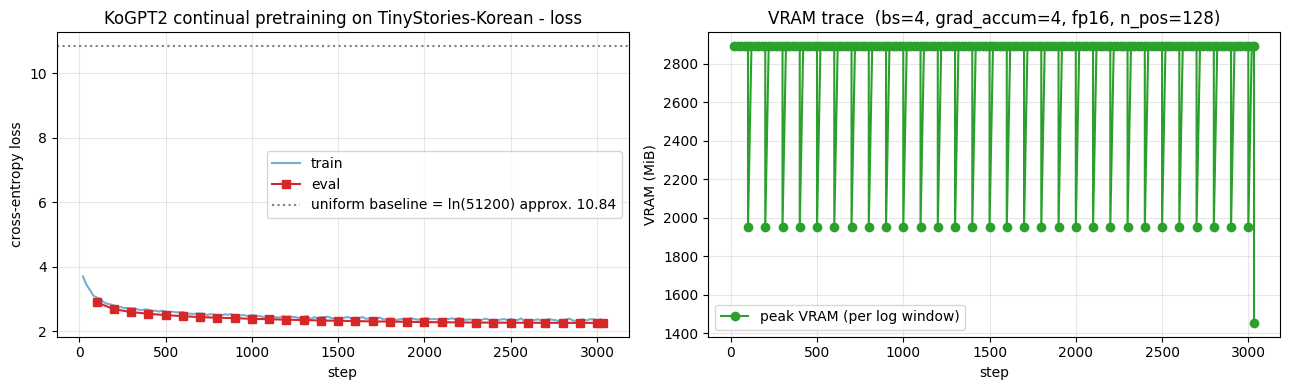
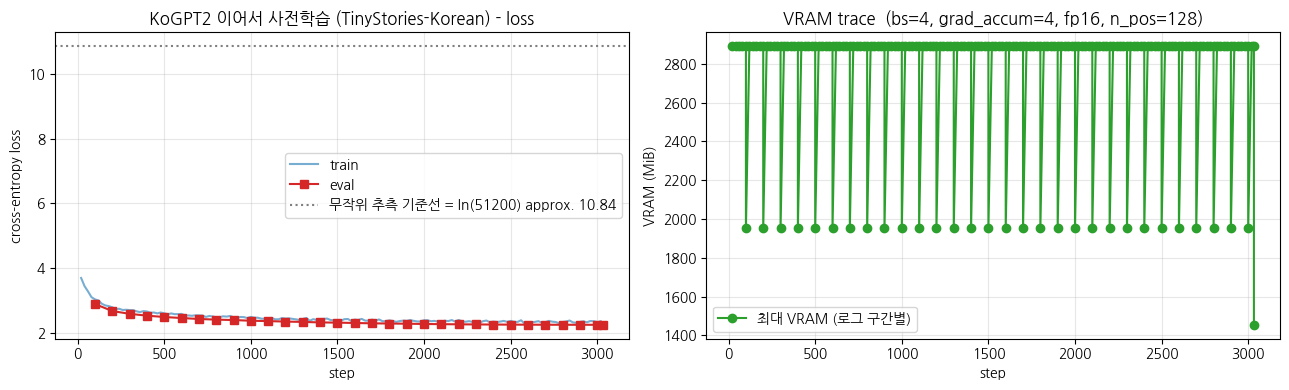
Ch 27 WikiDocs 변환 — executed 한글 plot 재생성
Claude-Session: https://claude.ai/code/session_01WacYaM89hZLnSLh4o6sjrA

diff --git a/pages/27-ko_gpt2_continual_pretrain-practice.md b/pages/27-ko_gpt2_continual_pretrain-practice.md
@@ -9,13 +9,14 @@
 **▶ 실행 결과**
 
 ```text
-   ━━━━━━━━━━━━━━━━━━━━━━━━━━━━━━━━━━━━━━━━ 11.2/11.2 MB 100.5 MB/s eta 0:00:00
-   ━━━━━━━━━━━━━━━━━━━━━━━━━━━━━━━━━━━━━━━━ 555.1/555.1 kB 48.4 MB/s eta 0:00:00
-   ━━━━━━━━━━━━━━━━━━━━━━━━━━━━━━━━━━━━━━━━ 389.2/389.2 kB 38.4 MB/s eta 0:00:00
-   ━━━━━━━━━━━━━━━━━━━━━━━━━━━━━━━━━━╸━━━━━ 42.3/48.9 MB 223.5 MB/s eta 0:00:01
-   ━━━━━━━━━━━━━━━━━━━━━━━━━━━━━━━━━━━━━━━╸ 48.9/48.9 MB 185.7 MB/s eta 0:00:01
-   ━━━━━━━━━━━━━━━━━━━━━━━━━━━━━━━━━━━━━━━╸ 48.9/48.9 MB 185.7 MB/s eta 0:00:01
-   ━━━━━━━━━━━━━━━━━━━━━━━━━━━━━━━━━━━━━━━━ 48.9/48.9 MB 17.0 MB/s eta 0:00:00
+   ━━━━━━━━━━━━━━━━━━━━━━━━━━━━━━━━━━━━━━━━ 11.2/11.2 MB 92.1 MB/s eta 0:00:00
+   ━━━━━━━━━━━━━━━━━━━━━━━━━━━━━━━━━━━━━━━━ 555.1/555.1 kB 40.4 MB/s eta 0:00:00
+   ━━━━━━━━━━━━━━━━━━━━━━━━━━━━━━━━━━━━━━━━ 389.2/389.2 kB 30.9 MB/s eta 0:00:00
+   ━━━━━━━━━━━━━━━━━━━━━━━━━━━━━━━━━━━━━━━━ 0.0/48.9 MB ? eta -:--:--
+   ━━━━━━━━━━━━━━━━━━━━━━━━━━╺━━━━━━━━━━━━━ 32.2/48.9 MB 169.9 MB/s eta 0:00:01
+   ━━━━━━━━━━━━━━━━━━━━━━━━━━━━━━━━━━━━━━━╸ 48.9/48.9 MB 88.9 MB/s eta 0:00:01
+   ━━━━━━━━━━━━━━━━━━━━━━━━━━━━━━━━━━━━━━━╸ 48.9/48.9 MB 88.9 MB/s eta 0:00:01
+   ━━━━━━━━━━━━━━━━━━━━━━━━━━━━━━━━━━━━━━━━ 48.9/48.9 MB 21.6 MB/s eta 0:00:00
 ```
 
 ```python
@@ -57,6 +58,15 @@ random.seed(SEED)
 # fp16 은 CUDA 에서만 (MPS 는 미지원, CPU 는 의미 없음)
 USE_FP16 = (device.type == "cuda")
 print(f"use fp16   : {USE_FP16}")
+
+# matplotlib 한글 폰트 (Colab — NanumGothic). plot 의 한국어가 □ 로 깨지지 않게.
+import matplotlib.pyplot as plt, matplotlib.font_manager as fm, subprocess, os
+_fp = "/usr/share/fonts/truetype/nanum/NanumGothic.ttf"
+if not os.path.exists(_fp):
+    subprocess.run("apt-get -qq -y install fonts-nanum", shell=True)
+fm.fontManager.addfont(_fp)
+plt.rcParams["font.family"] = "NanumGothic"
+plt.rcParams["axes.unicode_minus"] = False
 ```
 
 **▶ 실행 결과**
@@ -67,8 +77,6 @@ VRAM total : 14.56 GiB
 torch      : 2.11.0+cu128
 use fp16   : True
 ```
-
-한국어 TinyStories 데이터셋은 한 줄씩 흩어진 형태라 `<|endoftext|>` 마커를 기준으로 다시 이어 붙여 story 단위로 복원합니다. Ch 26 과 똑같은 30,000 story 를 streaming 으로 읽어 와 학습/검증 셋을 만듭니다. 영어판 Ch 25 가 영어 TinyStories 를 쓴 자리를, 여기서는 한국어 TinyStories 로 그대로 대칭시키는 부분입니다.
 
 ```python
 from datasets import load_dataset, Dataset
@@ -116,7 +124,7 @@ print(raw_train[0]["text"][:400])
 **▶ 실행 결과**
 
 ```text
-rebuilt stories: train=30,000, val=500  (25.7s)
+rebuilt stories: train=30,000, val=500  (22.7s)
 train: Dataset({
     features: ['text'],
     num_rows: 30000
@@ -129,12 +137,6 @@ val  : Dataset({
 === sample story (same as Ch 26) ===
 한때 벤이라는 이름의 어린 소년이 있었어요. 벤은 주변 세계를 탐험하는 것을 좋아했답니다. 그는 가게에 전시되어 있던 아름다운 꽃병들 같은 멋진 것들을 많이 봤어요. 어느 날, 벤은 가게를 거닐다가 정말 특별한 꽃병을 발견했죠. 벤은 그 꽃병을 보고 …(뒤 240자 생략)
 ```
-
-**결과 해석**
-
-train 30,000 / val 500 story 를 약 26초 만에 복원했고, 첫 story 가 Ch 26 과 동일한 동화 문장으로 시작합니다. 같은 데이터 위에서 scratch(Ch 26)와 continual(Ch 27)을 비교할 토대가 갖춰졌습니다.
-
-여기서는 SKT 가 공개한 기성 KoGPT2 본체와 토크나이저를 불러옵니다. `AutoTokenizer` 가 영어 GPT2 로 잘못 fallback 하는 문제를 피하려고 `PreTrainedTokenizerFast` 로 special token 을 직접 지정해 로드합니다. Ch 26 의 3M scratch 모델과 비교해 파라미터/vocab 규모가 얼마나 커졌는지 함께 출력합니다.
 
 ```python
 from transformers import PreTrainedTokenizerFast, AutoModelForCausalLM
@@ -178,7 +180,7 @@ transformer.h.{0...11}.attn.masked_bias | UNEXPECTED |  |
 
 Notes:
 - UNEXPECTED:	can be ignored when loading from different task/architecture; not ok if you expect identical arch.
-load done: 10.9s
+load done: 10.0s
 
 === model ===
 #params           : 125.16 M  (Ch 26 was approx. 3M; Ch 27 is approx. 42x larger)
@@ -194,12 +196,6 @@ model: GPT2LMHeadModel
   - body : GPT2Model  (Decoder, causal attention)
   - head : Linear(in=768, out=51200)
 ```
-
-**결과 해석**
-
-본체가 125.16M 파라미터로 Ch 26(약 3M) 대비 42배, vocab 도 51,200 으로 13배 큽니다. 본체와 lm_head 가 weight tying 으로 묶여 있어, scratch 가 아닌 이미 한국어를 학습한 무게 위에서 계속 학습한다는 점이 출발선의 차이입니다.
-
-토큰화한 story 끝마다 EOS 를 붙여 경계를 표시한 뒤, 모든 토큰을 이어 붙여 `BLOCK_SIZE=128` 단위로 잘라 고정 길이 학습 청크를 만듭니다. CausalLM 표준 전처리로, Ch 25/26 과 동일한 group_texts 방식입니다.
 
 ```python
 BLOCK_SIZE = 128   # Ch 26 과 동일
@@ -251,12 +247,6 @@ approx. train tokens: 6.21 M
 first chunk decode (first 200 chars):
 한때 벤이라는 이름의 어린 소년이 있었어요. 벤은 주변 세계를 탐험하는 것을 좋아했답니다. 그는 가게에 전시되어 있던 아름다운 꽃병들 같은 멋진 것들을 많이 봤어요. 어느 날, 벤은 가게를 거닐다가 정말 특별한 꽃병을 발견했죠. 벤은 그 꽃병을 보고 …(뒤 60자 생략)
 ```
-
-**결과 해석**
-
-30,000 story 가 128 토큰 청크 48,513 개(약 6.21M 토큰)로 정리됐습니다. 첫 청크를 디코딩하면 원문 story 가 그대로 복원되어 전처리가 손상 없이 동작했음을 알 수 있습니다.
-
-학습 전 KoGPT2 가 같은 prompt 에 어떻게 반응하는지 먼저 찍어 둡니다. 학습 후 출력과 나란히 놓고 continual pretraining 의 효과를 보기 위한 기준선입니다. KoGPT2 는 이미 한국어 일반 코퍼스로 사전학습됐으므로, 동화체가 아닌 일반 도메인 풍 문장이 나오는 점을 눈여겨봅니다.
 
 ```python
 PROMPTS = [
@@ -314,12 +304,6 @@ BEFORE continual pretraining - KoGPT2 pretrained on Korean corpus, as-is
 우리는 하나님의 말씀을 통해서 하나님의 능력을 충분히 깨닫습니다.
 그 능력은 하나님의 말씀을 통해서 우리에게 전달되기도 하고, 또 하나
 ```
-
-**결과 해석**
-
-학습 전 출력은 동화와 무관한 일반 도메인 문장(구어체, 종교적 서술 등)으로 흘러갑니다. KoGPT2 가 한국어 자체는 유창하게 다루지만 TinyStories 동화체에는 아직 적응하지 않았음을 보여 줍니다.
-
-이제 continual pretraining 을 실제로 수행합니다. 핵심은 `learning_rate=2e-5` 로, Ch 26 scratch 의 5e-4 보다 훨씬 작은 값입니다. 이미 학습된 표상을 덮어쓰지 않고 살살 적응시키기 위함이며, 이것이 scratch 와 continual 을 가르는 거의 유일한 큰 차이입니다. VRAMCallback 으로 T4 메모리 사용량도 함께 추적합니다.
 
 ```python
 from transformers import (DataCollatorForLanguageModeling, Trainer,
@@ -399,18 +383,12 @@ if torch.cuda.is_available():
 [transformers] `loss_type=None` was set in the config but it is unrecognized. Using the default loss: `ForCausalLMLoss`.
 <IPython.core.display.HTML object>
 === continual pretraining summary ===
-elapsed       : 17.08 min
+elapsed       : 17.11 min
 global_step   : 3033
 train_loss    : 2.4862
 vocab ln (random baseline): 10.8435  (we start MUCH lower than this)
 final peak    : 1455 MiB
 ```
-
-**결과 해석**
-
-T4 에서 약 17분 만에 1 epoch(3,033 step)이 끝났고 train_loss 2.49 로 수렴했습니다. 무작위 baseline ln(51,200)≈10.84 보다 훨씬 낮은 곳에서 출발한다는 점이 scratch 와 다른 점이고, peak VRAM 도 약 1,455 MiB 로 16GB T4 에 여유 있게 들어갑니다.
-
-학습 곡선과 VRAM 추이를 함께 그려 수렴 양상과 메모리 안정성을 한눈에 봅니다.
 
 ```python
 # loss curve + VRAM trace
@@ -427,20 +405,20 @@ if eval_pts:
     ax1.plot([s for s, _ in eval_pts], [l for _, l in eval_pts], "s-",
              color="tab:red", label="eval")
 ax1.axhline(math.log(tokenizer.vocab_size), ls=":", color="gray",
-            label=f"uniform baseline = ln({tokenizer.vocab_size}) approx. {math.log(tokenizer.vocab_size):.2f}")
+            label=f"무작위 추측 기준선 = ln({tokenizer.vocab_size}) approx. {math.log(tokenizer.vocab_size):.2f}")
 ax1.set_xlabel("step"); ax1.set_ylabel("cross-entropy loss")
-ax1.set_title("KoGPT2 continual pretraining on TinyStories-Korean - loss")
+ax1.set_title("KoGPT2 이어서 사전학습 (TinyStories-Korean) - loss")
 ax1.grid(True, alpha=0.3); ax1.legend()
 
 # VRAM (CUDA 만)
 if vram_cb.steps:
     ax2.plot(vram_cb.steps, vram_cb.peak_MiB, "o-", color="tab:green",
-             label="peak VRAM (per log window)")
+             label="최대 VRAM (로그 구간별)")
     ax2.set_title(f"VRAM trace  (bs=4, grad_accum=4, fp16, n_pos={BLOCK_SIZE})")
 else:
-    ax2.text(0.5, 0.5, "VRAM trace available on CUDA only",
+    ax2.text(0.5, 0.5, "VRAM 추적은 CUDA 에서만 가능",
              ha="center", va="center", transform=ax2.transAxes)
-    ax2.set_title("VRAM trace - CUDA only")
+    ax2.set_title("VRAM 추적 - CUDA 전용")
 ax2.set_xlabel("step"); ax2.set_ylabel("VRAM (MiB)")
 ax2.grid(True, alpha=0.3); ax2.legend()
 
@@ -450,12 +428,6 @@ plt.tight_layout(); plt.show()
 **▶ 실행 결과**
 
 ![output](../assets/27-ko_gpt2_continual_pretrain-out1.png)
-
-**결과 해석**
-
-train/eval loss 모두 uniform baseline 보다 한참 아래에서 매끄럽게 내려가고, peak VRAM 도 학습 내내 평탄하게 유지됩니다. 작은 lr 로도 손실이 안정적으로 감소해 continual pretraining 이 정상 진행됐음을 보여 줍니다.
-
-학습이 끝난 같은 모델에 동일한 prompt 를 다시 넣어 봅니다. 학습 전 출력과 비교하면 동화체로 얼마나 적응했는지 직접 확인할 수 있습니다.
 
 ```python
 torch.manual_seed(SEED)
@@ -484,12 +456,6 @@ AFTER continual pretraining - KoGPT2 + TinyStories-Korean 30K
 [prompt] 큰 개가
 큰 개가 친구들에게 말했죠, "걱정 마, 작은 개야. 우리는 너를 돕고 싶어, 작은 개야." 그들은 공을 되찾으려고 해요. 그들은 계속 시도해요. 그들은 공을 잡으려고 해요. 하지만 공이 너무 커서 쉽지 않아요. 그들은 미끄러져 넘어지고 말죠.
 ```
-
-**결과 해석**
-
-세 prompt 모두 "릴리", "작은 소녀", "공원" 같은 동화 어휘와 부드러운 종결어미("했어요", "했지요")로 이어지는 TinyStories 풍 문장을 생성합니다. 같은 본체가 30,000 동화만으로 도메인을 확실히 갈아탔음을 보여 줍니다.
-
-학습 전후를 prompt 별로 나란히 출력해 변화를 직접 대비합니다.
 
 ```python
 # Ch 27 within-model BEFORE vs AFTER comparison
@@ -533,12 +499,6 @@ BEFORE  : 되어버린 것입니다.
 그 능력은 하나님의 말씀을 통해서 우리에게 전달되기도 하고, 또 하나
 AFTER   : 친구들에게 말했죠, "걱정 마, 작은 개야. 우리는 너를 돕고 싶어, 작은 개야." 그들은 공을 되찾으려고 해요. 그들은 계속 시도해요. 그들은 공을 잡으려고 해요. 하지만 공이 너무 커서 쉽지 않아요. 그들은 미끄러져 넘어지고 말죠.
 ```
-
-**결과 해석**
-
-같은 prompt 에서 BEFORE 는 일반 도메인(구어체/종교적 서술), AFTER 는 일관된 동화체로 갈립니다. 본체와 토크나이저는 그대로 두고 데이터만 바꿔 도메인을 옮기는 continual pretraining 의 효과가 한 모델 안에서 선명하게 드러납니다.
-
-마지막으로 Ch 26 의 3M scratch 모델 출력까지 끌어와 세 결과를 한 표로 비교합니다.
 
 ```python
 # Ch 26 의 TRAINED model generation 결과 인용
@@ -603,7 +563,3 @@ Ch 27 BEFORE    : 되어버린 것입니다.
 그 능력은 하나님의 말씀을 통해서 우리에게 전달되기도 하고, 또 하나
 Ch 27 AFTER     : 친구들에게 말했죠, "걱정 마, 작은 개야. 우리는 너를 돕고 싶어, 작은 개야." 그들은 공을 되찾으려고 해요. 그들은 계속 시도해요. 그들은 공을 잡으려고 해요. 하지만 공이 너무 커서 쉽지 않아요. 그들은 미끄러져 넘어지고 말죠.
 ```
-
-**결과 해석**
-
-Ch 26 scratch 와 Ch 27 AFTER 는 둘 다 자연스러운 동화체를 내지만, 125M 본체에서 출발한 Ch 27 쪽이 더 길고 일관된 서사를 이어 갑니다. 사전학습된 표상을 살린 continual pretraining 이 적은 학습으로도 풍부한 결과를 낸다는 점을 보여 줍니다.

diff --git a/TOC.md b/TOC.md
@@ -103,8 +103,8 @@
   * [26-2. 변형: sampling hyperparam / 더 큰 모델 / 더 많은 stories](pages/26-ko_tiny_gpt-variation.md)
   * [26-3. 정리와 FAQ](pages/26-ko_tiny_gpt-wrapup.md)
 * [27. KoGPT2 계속 사전학습 (Korean Continual Pretraining)](pages/27-ko_gpt2_continual_pretrain.md)
-  * [27-1. 실습: KoGPT2 계속 사전학습](pages/27-ko_gpt2_continual_pretrain-practice.md)
-  * [27-2. 변형 — 더 많은 epoch / 다른 도메인 / catastrophic forgetting 시연](pages/27-ko_gpt2_continual_pretrain-variation.md)
+  * [27-1. 실습](pages/27-ko_gpt2_continual_pretrain-practice.md)
+  * [27-2. 변형: 더 많은 epoch / 다른 도메인 / catastrophic forgetting 시연](pages/27-ko_gpt2_continual_pretrain-variation.md)
   * [27-3. 정리와 FAQ](pages/27-ko_gpt2_continual_pretrain-wrapup.md)
 * [28. KoGPT2 SFT (Instruction Tuning)](pages/28-sft.md)
   * [28-1. 실습: KoGPT2 instruction tuning (SFT)](pages/28-sft-practice.md)

diff --git a/pages/27-ko_gpt2_continual_pretrain.md b/pages/27-ko_gpt2_continual_pretrain.md
@@ -299,6 +299,4 @@ Ch 26 의 *작은 from-scratch 모델* (약 3M, 한국어 TinyStories 1500 step)
 
 ## 이 장의 구성
 
-- [27-1. 실습](27-ko_gpt2_continual_pretrain-practice.md)
-- [27-2. 변형 — 더 많은 epoch / 다른 도메인 / catastrophic forgetting 시연](27-ko_gpt2_continual_pretrain-variation.md)
-- [27-3. 정리와 FAQ](27-ko_gpt2_continual_pretrain-wrapup.md)
+[[SubPages]]
